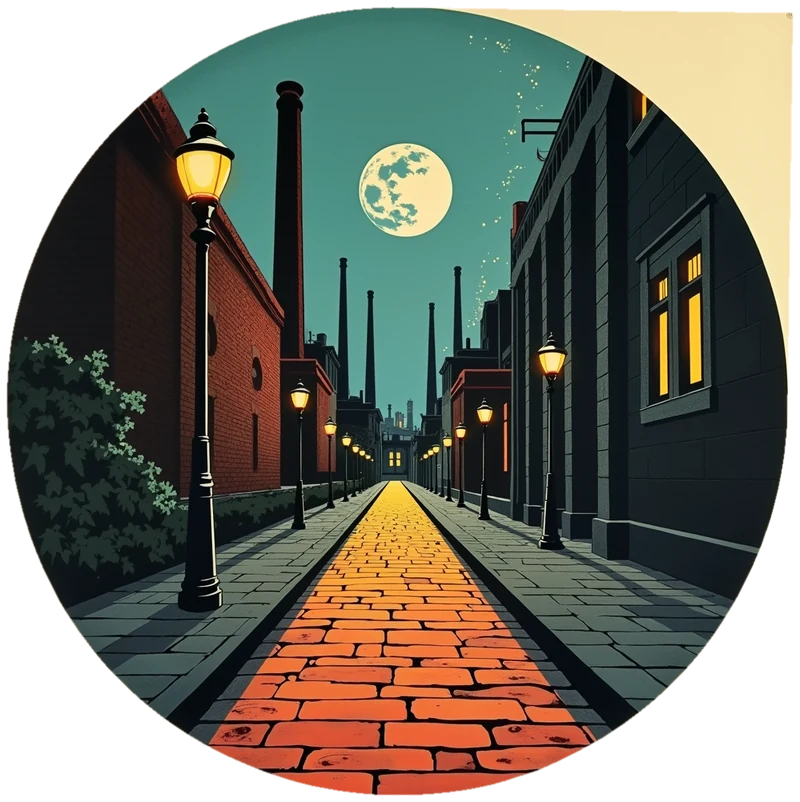
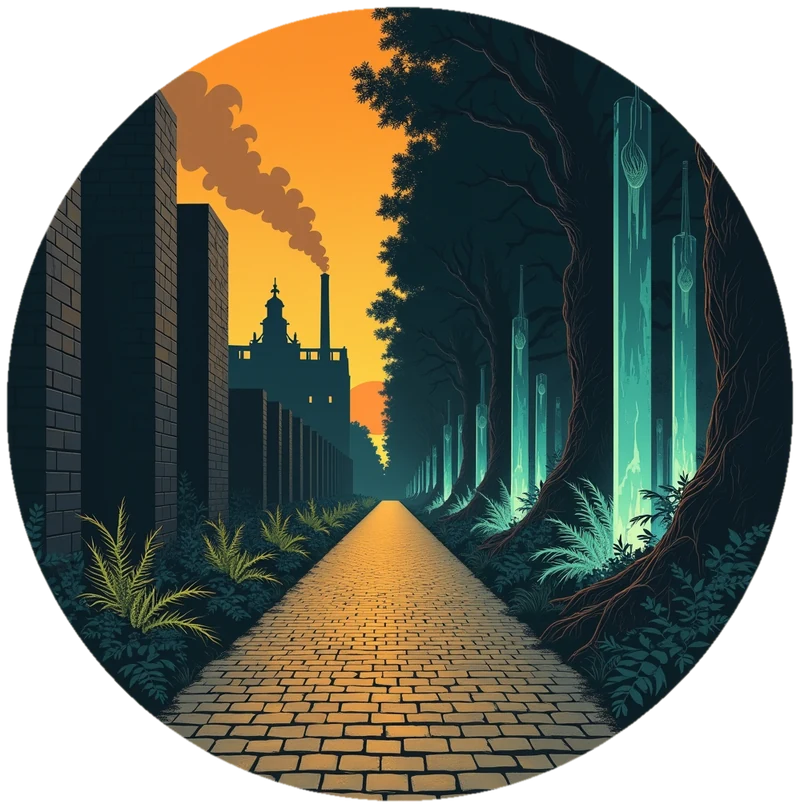
art — World Between: final street spot (12b) and the balance scale (13c) (#14)

diff --git a/docs/art/generation-log.md b/docs/art/generation-log.md
@@ -205,3 +205,7 @@ Direction D2 (Deco Lithograph, six-ink palette, cyan = Aether, amber = Engine). 
 **Deco Wave 2, round 2 (Session 35):**
 - spot_dice (5b): approved `deco-spot_dice_v02_seed-3379016794.png` (six-sided dice are fine, per the user). Other v02 dice archived.
 - spot_street: the user liked none of v02 (all four archived). The v01 fallback `deco-spot_street_v01_seed-2393896153.png` (12z) goes in as a stand-in, but both sides read industrial (power lines, lamps, stacks). v03 (Aether half with no buildings) and an alternative subject, `spot_scales` (a balance scale: cog vs crystal), are queued.
+
+**Deco Wave 2, round 3 (Session 35):**
+- spot_street v03 (Aether half with no buildings): approved `deco-spot_street_v03_seed-2577066863.png` (12b, in use) and `deco-spot_street_v03_seed-249387253.png` (12a, alternate; the user rated both "really good"). 12c/12d archived. The v01 stand-in stays approved but is replaced on the page.
+- spot_scales: approved `deco-spot_scales_v01_seed-3076497211.png` (13c); the other three archived. It is Ch 10's second spot, beside "What Moves the Balance".
